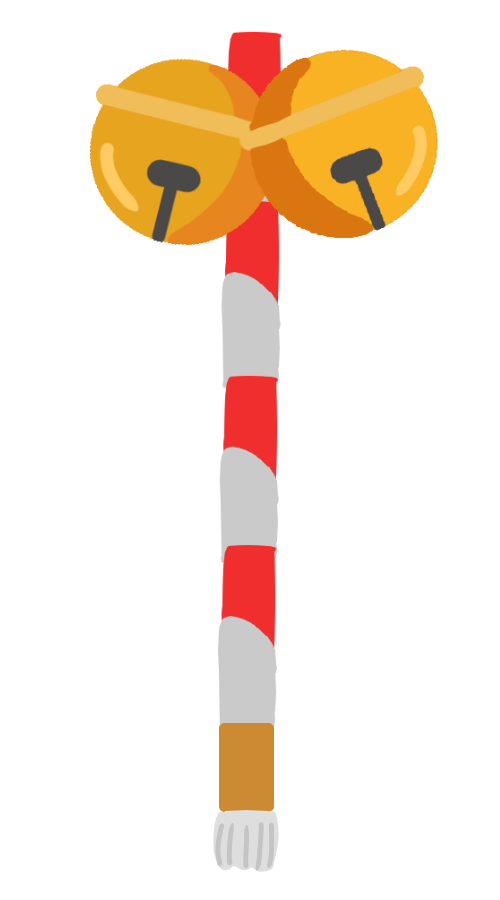
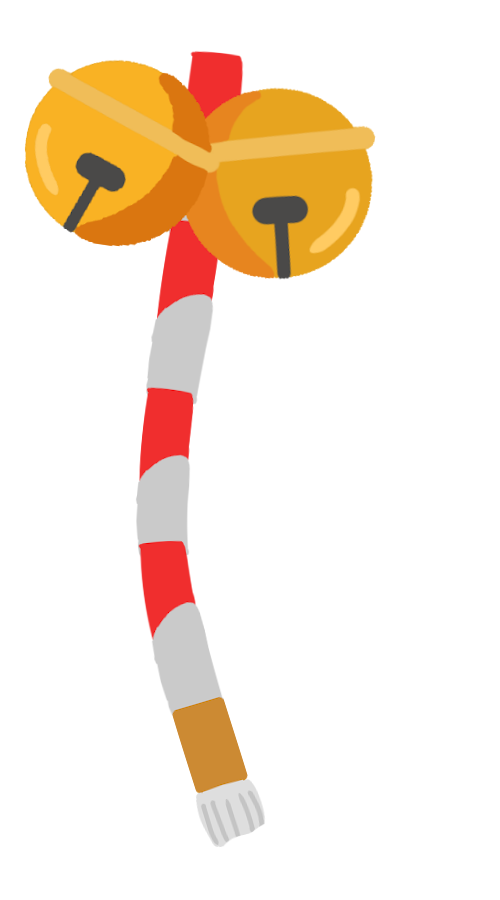
とりあえず

Changed region(s): [[0.03, 0.0311, 0.9, 0.9644]]

diff --git a/src/components/pages/osaisen/index.jsx b/src/components/pages/osaisen/index.jsx
@@ -9,7 +9,7 @@ import coin100yen from '../../../assets/img/osaisen/coins/coin-100yen.png';
 import coin500yen from '../../../assets/img/osaisen/coins/coin-500yen.png';
 import offertoryBox from '../../../assets/img/osaisen/offertory-box.png';
 import resetCoin from '../../../assets/img/osaisen/reset-coins.png';
-import { Button, Container, Col, Row } from 'react-bootstrap';
+import { Container, Col, Row } from 'react-bootstrap';
 import "bootstrap/dist/css/bootstrap.min.css";
 import paypay from '../../../assets/img/osaisen/payments/paypay.jpg';
 import linepay from '../../../assets/img/osaisen/payments/linepay.png';
@@ -18,6 +18,8 @@ import resetButton from '../../../assets/img/resetButton.jpg';
 import { useHistory } from 'react-router-dom';
 import PropTypes from 'prop-types';
 import { withRouter } from 'react-router';
+import { ImageAspectRatioOutlined } from '@material-ui/icons';
+import Bell from './bell';
 
 class Shrine extends React.Component {
   constructor(props) {
@@ -29,6 +31,7 @@ class Shrine extends React.Component {
       count50yen: 0,
       count100yen: 0,
       count500yen: 0,
+      clickCount: 0,
     };
   }
 
@@ -38,41 +41,39 @@ class Shrine extends React.Component {
     history: PropTypes.object.isRequired
   };
 
-  handleClick = () => {
-    this.props.history.push('/payment')
-    console.log("check!")
+  componentDidUpdate() {
   }
 
-  // componentDidMount(){
-
-  // }
+  calcSumMoney = () => {
+    return (
+      this.state.count1yen + this.state.count5yen 
+      + this.state.count10yen + this.state.count50yen 
+      + this.state.count100yen + this.state.count500yen
+      );
+  }
   displaySumMoney = () => {
     var sumMoney = this.state.count1yen + this.state.count5yen + this.state.count10yen + this.state.count50yen + this.state.count100yen + this.state.count500yen
     var element = null;
-    if (sumMoney <= 10000) {
+    if (sumMoney < 10000) {
       element = <h1 className="sum-money"> 合計金額：{sumMoney}円 </h1>;
     }
     else {
-      window.alert("合計金額が１万円以上は選択でき来ません。\n もう一度金額指定をしてください。");
       this.resetState()
       sumMoney = 0;
-      console.log('alearted')
       element = <React.Fragment>
         <h1 className="sum-money">
           合計金額：{sumMoney}円
           </h1>
       </React.Fragment>;
+      window.alert("合計金額が１万円以上は選択でき来ません。\n もう一度金額指定をしてください。");
     }
     return (element)
   }
 
-  componentDidUpdate() {
-  }
   handleClick1yen() {
     this.setState({
       count1yen: this.state.count1yen + 1
     });
-    console.log(this.state.count1yen)
   }
 
   handleClick5yen() {
@@ -109,57 +110,59 @@ class Shrine extends React.Component {
       count1yen: 0, count5yen: 0, count10yen: 0, count50yen: 0, count100yen: 0, count500yen: 0
     });
   }
+  handleClick = () => {
+    this.createPaymentElement();
+  }
+
+  createPaymentElement = () => {
+    ReactDOM.render(<Bell />, document.getElementById('page-box'))
+  }
 
   render() {
     return (
-      <React.Fragment>
+      <div id='page-box'>
         <Container className="centering">
           {this.displaySumMoney()}
           <img src={offertoryBox} alt="offertory-box" className="offertory-box centering" />
         </Container>
-        <Container className="coins-button centering">
-          <Row>
-            <Col md={2}>
-              <img src={coin1yen} alt="1yen" onClick={() => this.handleClick1yen()} className="coin-img" />
-            </Col>
-            <Col md={2}>
-              <img src={coin5yen} alt="5yen" onClick={() => this.handleClick5yen()} className="coin-img" />
-            </Col>
-            <Col md={2}>
-              <img src={coin10yen} alt="10yen" onClick={() => this.handleClick10yen()} className="coin-img" />
-            </Col>
-            <Col md={2}>
-              <img src={coin50yen} alt="50yen" onClick={() => this.handleClick50yen()} className="coin-img" />
-            </Col>
-            <Col md={2}>
-              <img src={coin100yen} alt="100yen" onClick={() => this.handleClick100yen()} className="coin-img" />
-            </Col>
-            <Col md={2}>
-              <img src={coin500yen} alt="500yen" onClick={() => this.handleClick500yen()} className="coin-img" />
-            </Col>
-          </Row>
-          <Row>
-            <Col md={12} className='centering reset-button'>
-              <img src={resetCoin} alt="reset" onClick={() => this.resetState()} className="reset-button" />
-            </Col>
-          </Row>
+          <Container className="coins-button centering">
+            <Row>
+              <Col md={2}>
+                <img src={coin1yen} alt="1yen" onClick={() => this.handleClick1yen()} className="coin-img" />
+              </Col>
+              <Col md={2}>
+                <img src={coin5yen} alt="5yen" onClick={() => this.handleClick5yen()} className="coin-img" />
+              </Col>
+              <Col md={2}>
+                <img src={coin10yen} alt="10yen" onClick={() => this.handleClick10yen()} className="coin-img" />
+              </Col>
+              <Col md={2}>
+                <img src={coin50yen} alt="50yen" onClick={() => this.handleClick50yen()} className="coin-img" />
+              </Col>
+              <Col md={2}>
+                <img src={coin100yen} alt="100yen" onClick={() => this.handleClick100yen()} className="coin-img" />
+              </Col>
+              <Col md={2}>
+                <img src={coin500yen} alt="500yen" onClick={() => this.handleClick500yen()} className="coin-img" />
+              </Col>
+            </Row>
+            <Row className='centering'>
+              <Col md={3} className='centering reset-button'>
+                <img src={resetCoin} alt="reset" onClick={() => this.resetState()} className="reset-button" />
+              </Col>
+              <Col md={3}>
+                <img src={paypay} alt="paypay" className="payment" onClick={this.handleClick} />
+              </Col>
+              <Col md={3}>
+                <img src={rakutenpay} alt="rakutenpay" className="payment" onClick={this.handleClick} />
+              </Col>
+              <Col md={3}>
+                <img src={linepay} alt="linepay" className="payment" onClick={this.handleClick} />
+              </Col>
+            </Row>
         </Container>
-        <Container className='centering payment'>
-          <Row>
-            <Col md={1}>
-              <img src={paypay} alt="paypay" className="payment" onClick={this.handleClick} />
-            </Col>
-            <Col md={1}>
-              <img src={rakutenpay} alt="rakutenpay" className="payment" onClick={this.handleClick} />
-            </Col>
-            <Col md={1}>
-              <img src={linepay} alt="linepay" className="payment" onClick={this.handleClick} />
-            </Col>
-          </Row>
-        </Container>
-      </React.Fragment>
+      </div>
     )
   }
 }
-
 export default withRouter(Shrine);

diff --git a/src/components/pages/osaisen/bell.jsx b/src/components/pages/osaisen/bell.jsx
@@ -1,0 +1,33 @@
+import React from 'react';
+import { Container, Col, Row } from 'react-bootstrap';
+import './index.css';
+import bellImg1 from '../../../assets/img/osaisen/suzu.png';
+import bellImg2 from '../../../assets/img/osaisen/suzu2.png';
+
+class Bell extends React.Component {
+  constructor(props) {
+    super(props)
+    this.state = {
+      clickCount: 0,
+      bellState: false
+    };
+  }
+  handleBellClickCountUp = () => {
+    const tmpState = !this.state.bellState
+    this.setState({
+      clickCount: this.state.clickCount + 1,
+      bellState: tmpState
+    })
+  }
+  render(){
+    return(
+      <Container className="centering">
+        <h2>振って！</h2>
+        <h3 id='clickDisplayArea'>{this.state.clickCount}</h3>
+        <img src={bellImg1} alt='bellImg' className='bell-img' onClick={this.handleBellClickCountUp}/>      
+      </Container>
+    );
+  }
+}
+
+export default Bell

diff --git a/src/components/pages/osaisen/index.css b/src/components/pages/osaisen/index.css
@@ -42,12 +42,18 @@ body {
     font-weight: bold;
 }
 .reset-button {
-    width: 20%;
-    max-width: 120px;
+    width: 7em;
+    max-width: 300px;
     border-radius: 30px;
 }
 
 .payment{
-    width: 100%;
+    width: 30%;
     height: auto;
+    border-radius: 1em;
+}
+.bell-img {
+    width: auto;
+    height: 10%;
+    max-height: 500px;
 }

diff --git a/src/components/pages/home/index.css b/src/components/pages/home/index.css
@@ -1,0 +1,11 @@
+.bg-home-img {
+  background-image: url('../../../assets/img/osaisenBg.png');
+  background-blend-mode: lighten;
+  background-position: center center;
+  background-attachment: fixed;
+  background-color:rgba(255,255,255,0.8);
+  height: 100%;
+}
+.top-message {
+  padding: 1rem 0 0 1rem;
+}
